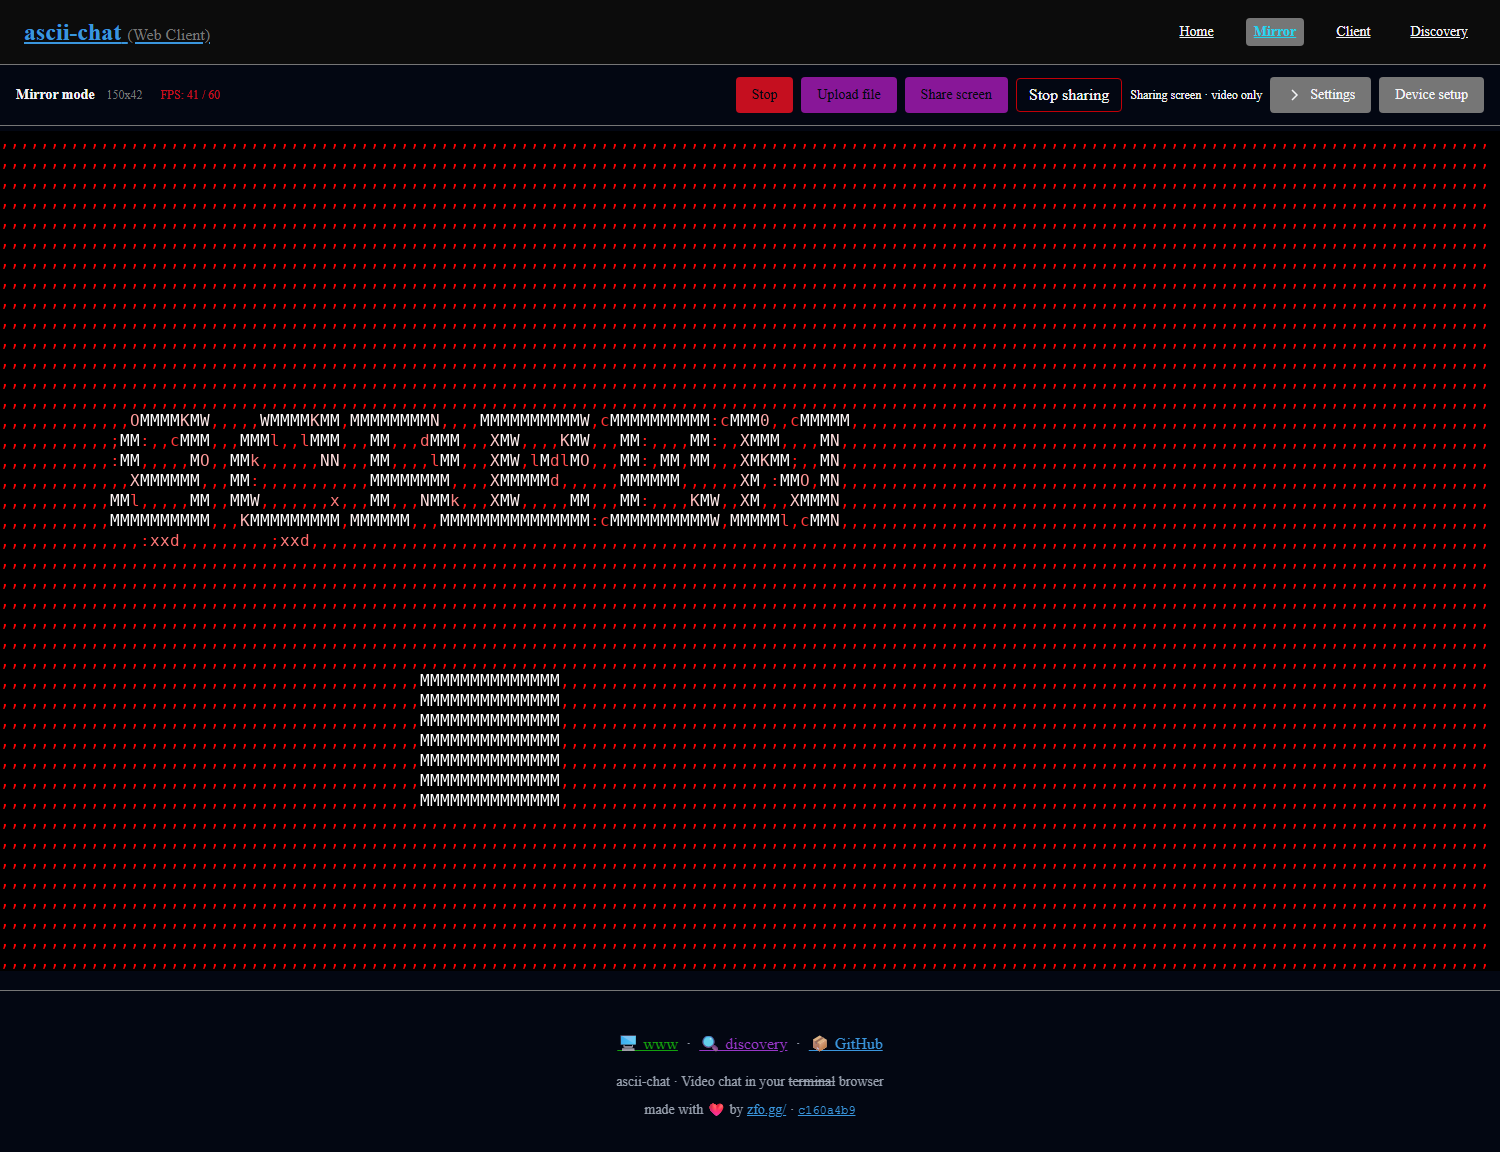
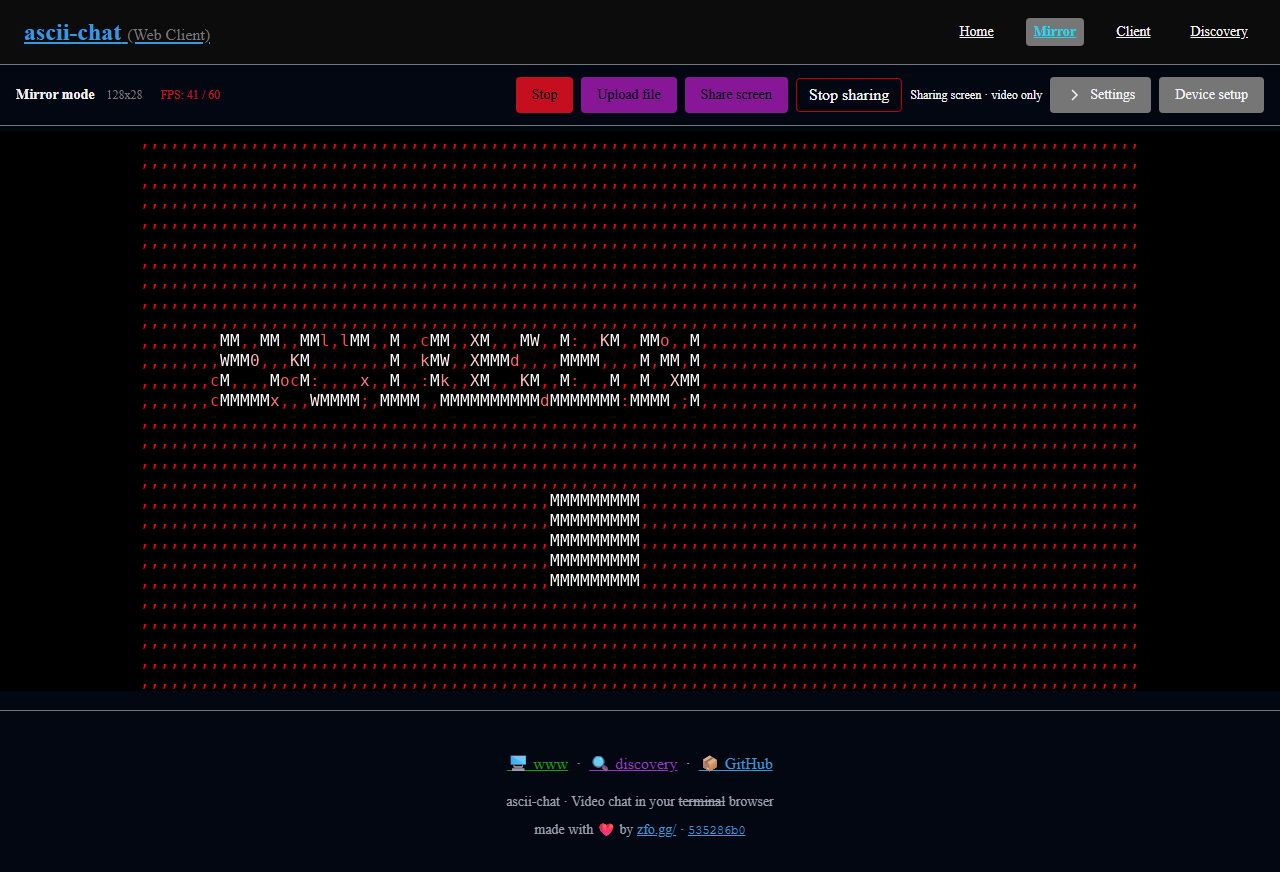
Fix CI regressions and make webcam switching blue

diff --git a/web/web/tests/e2e/session-ui.spec.ts b/web/web/tests/e2e/session-ui.spec.ts
@@ -102,8 +102,13 @@ test("C splash animates and keyboard settings update both C and the web controls
   await expect
     .poll(() => lastFrame(page))
     .toContain("ascii-chat Keyboard Shortcuts");
-  // Static help does not keep counting covered splash frames.
-  await expect.poll(canvasFps).toBe(0);
+  // Help owns the canvas and animates its own rainbow logo.
+  await expect.poll(canvasFps).toBeGreaterThan(0);
+  const helpBefore = await canvas.screenshot();
+  await expect
+    .poll(async () => (await canvas.screenshot()).equals(helpBefore))
+    .toBe(false);
+  expect(await lastFrame(page)).not.toContain("Video chat in your terminal");
   await page.keyboard.press("c");
   await expect(page).toHaveURL(/colorMode=none/);
   await expect.poll(() => lastFrame(page)).toContain("Mono");
@@ -249,7 +254,9 @@ test("C application logs survive closed overlays and share exclusive presentatio
   await expect.poll(() => lastFrame(page)).toContain("/: search logs");
   await page.screenshot({ path: "artifacts/session-logs-web.png" });
   await page.keyboard.press("?");
-  await expect.poll(() => lastFrame(page)).toContain("Toggle application logs");
+  await expect
+    .poll(() => lastFrame(page))
+    .toContain("Live log viewer/searcher TUI");
   expect(await lastFrame(page)).not.toContain("/: search logs");
   await page.screenshot({ path: "artifacts/session-logs-help-web.png" });
   await page.keyboard.press("]");

diff --git a/web/web/src/pages/Client.tsx b/web/web/src/pages/Client.tsx
@@ -1199,7 +1199,7 @@ export function ClientPage({
                 ? disableWebcam
                 : enableWebcam
           }
-          className={`border rounded px-3 py-1 cursor-pointer text-white ${isWebcamRunning ? "border-red-700 bg-red-700 hover:bg-red-800" : "border-green-700 bg-green-700 hover:bg-green-800"}`}
+          className={`border rounded px-3 py-1 cursor-pointer text-white ${screenCapture.active ? "border-blue-700 bg-blue-700 hover:bg-blue-800" : isWebcamRunning ? "border-red-700 bg-red-700 hover:bg-red-800" : "border-green-700 bg-green-700 hover:bg-green-800"}`}
         >
           {screenCapture.active
             ? "Switch to webcam"

diff --git a/web/web/tests/e2e/screen-sharing.spec.ts b/web/web/tests/e2e/screen-sharing.spec.ts
@@ -510,6 +510,9 @@ for (const mode of ["client", "discovery"]) {
         .getByRole("button", { name: "Share screen", exact: true })
         .click();
       await expect(page.getByText("Sharing screen · video only")).toBeVisible();
+      await expect(
+        page.getByRole("button", { name: "Switch to webcam", exact: true }),
+      ).toHaveCSS("background-color", "oklch(0.488 0.243 264.376)");
       await expect
         .poll(
           () => page.evaluate(() => window.__clientFrameMetrics?.received ?? 0),

diff --git a/lib/log/log.c b/lib/log/log.c
@@ -1912,9 +1912,13 @@ const char *log_level_color_for_output(log_color_t color, bool enabled) {
   if (!enabled)
     return "";
   static _Thread_local colorscheme_palette_t palette;
-  terminal_color_mode_t mode = terminal_get_effective_color_mode();
+  // The caller already resolved whether this destination accepts color. Do not
+  // re-check stdout here: reports can target a terminal independent of stdout.
+  terminal_color_mode_t mode = GET_OPTION(color_mode);
   if (mode == TERM_COLOR_AUTO)
     mode = (terminal_color_mode_t)log_get_color_mode();
+  if (mode == TERM_COLOR_NONE && GET_OPTION(color_mode) == TERM_COLOR_AUTO)
+    mode = TERM_COLOR_16;
   colorscheme_current_palette(&palette, mode);
   return palette.codes[color >= 0 && color <= LOG_COLOR_RESET ? color : LOG_COLOR_RESET];
 }
